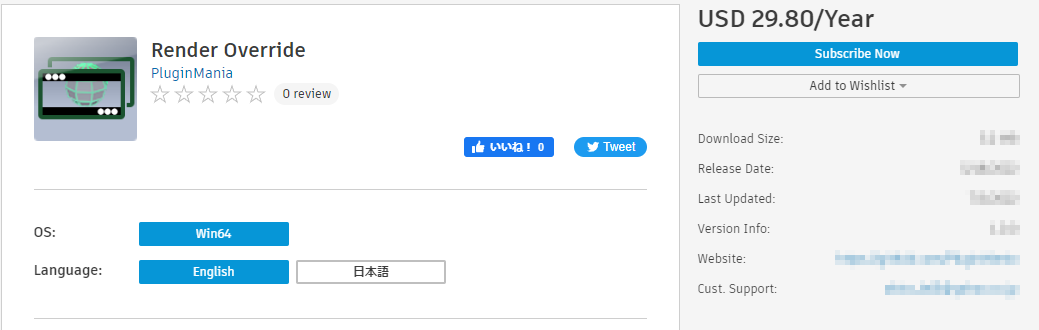
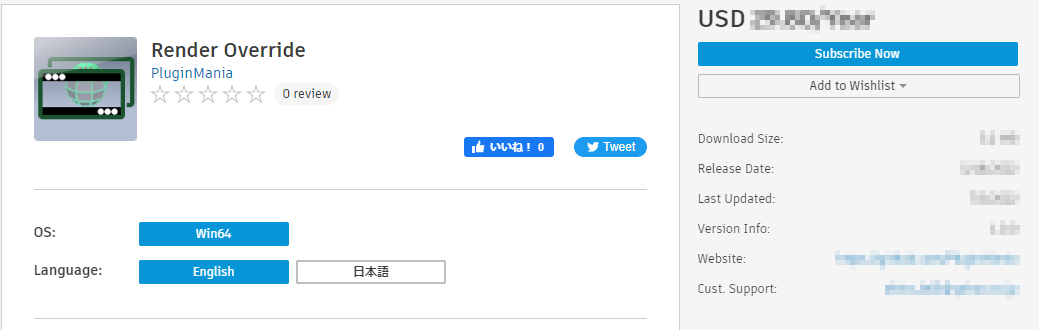
[install.rst, install_downloadAppPage.png] 試用版が出品されたので、リンクの設定。 商用版が準備中なので、それについての記事。

Changed region(s): [[0.7084, 0.0303, 0.8624, 0.0909]]

diff --git a/docs_reST/source/jp/sec01_overview/install.rst b/docs_reST/source/jp/sec01_overview/install.rst
@@ -12,16 +12,19 @@
 ダウンロード方法
 ****************
 
-.. * [試用版] `Trial version Download`_
 .. * [商用版] `Commercial version Download`_
 
 1. AutodeskAppStoreからインストーラーをダウンロードしてください
 
+   [試用版] `Trial version Download`_
+
    * 試用版は、料金の支払無しで試用できます。 (画面にウォーターマークが表示されます)
-   * 有償版は、サブスクリプション契約になります。
+   * 有償版の販売は現在準備中です。
 
      * 試用版と有償版の違いは、画面にウォーターマークが表示されるかどうかの違いしかありません。
      * ウォーターマーク以外の機能は同じですので、試用版で動作確認を行った上、有償版をご使用ください。
+
+       * (試用版のページからダウンロードしたプログラムではライセンス認証されませんので、一度試用版をアンインストールしたのち、有償版のプログラムをインストールし直す必要があります)
 
    .. figure:: ../../_images/install_downloadAppPage.png
       :alt: downloadAppPage
@@ -62,7 +65,7 @@
    * トラブルが発生した時は「 :ref:`bugReport_jp` 」からご報告をお願いします
 
 
-.. _Trial version Download: https://apps.autodesk.com/MAYA/ja/List/Search?isAppSearch=True&searchboxstore=MAYA
+.. _Trial version Download: https://apps.autodesk.com/MAYA/ja/Detail/Index?id=1500980629671557990&os=Win64&appLang=ja
 .. _Commercial version Download: https://apps.autodesk.com/MAYA/ja/List/Search?isAppSearch=True&searchboxstore=MAYA
 
 .. _Issues: https://github.com/PluginMania/RenderOverrideForMaya/issues

diff --git a/docs_reST/source/en/sec01_overview/install.rst b/docs_reST/source/en/sec01_overview/install.rst
@@ -12,16 +12,19 @@ Download and install plug-ins
 Download
 ********
 
-.. * [Trial version] `Trial version Download`_
 .. * [Commercial version] `Commercial version Download`_
 
 1. Download the installer from AutodeskAppStore.
 
+   [Trial version] `Trial version Download`_
+
    * Trial version is available without payment. (A watermark will appear on the screen.)
-   * The paid version is a subscription contract.
+   * The paid version is currently being prepared for sale.
 
      * The only difference between the trial version and the paid version is whether the watermark is displayed on the screen or not.
      * The functions other than the watermark are the same, so please use the paid version after confirming the operation with the trial version.
+
+       * (The program downloaded from the trial version page will not activate the license, so you will need to uninstall the trial version and then reinstall the paid version of the program.)
 
    .. figure:: ../../_images/install_downloadAppPage.png
       :alt: downloadAppPage
@@ -62,7 +65,7 @@ Notes on downloading and installation
    * If you encounter any trouble, please report it via ":ref:`bugReport_en`".
 
 
-.. _Trial version Download: https://apps.autodesk.com/MAYA/ja/List/Search?isAppSearch=True&searchboxstore=MAYA
+.. _Trial version Download: https://apps.autodesk.com/MAYA/ja/Detail/Index?id=1500980629671557990&os=Win64&appLang=en
 .. _Commercial version Download: https://apps.autodesk.com/MAYA/ja/List/Search?isAppSearch=True&searchboxstore=MAYA
 
 .. _Issues: https://github.com/PluginMania/RenderOverrideForMaya/issues
